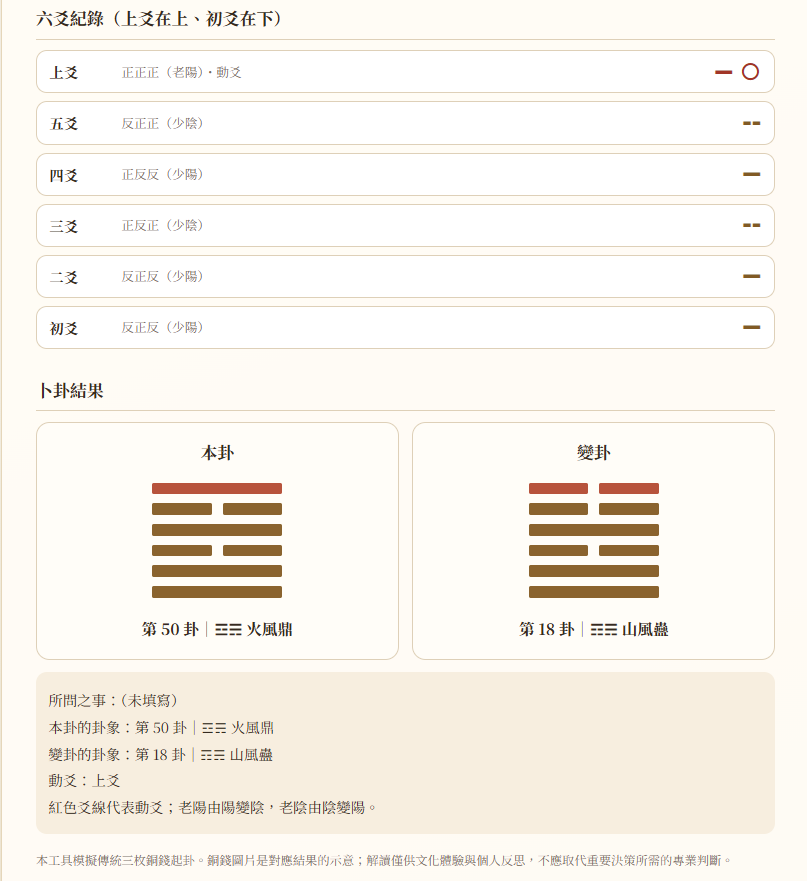
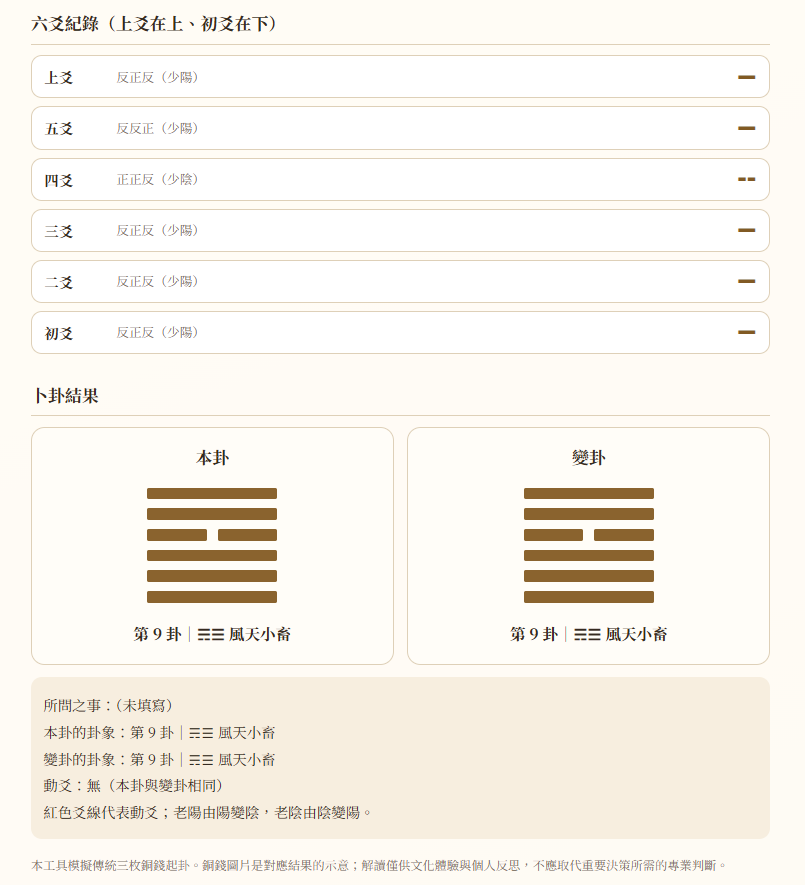
Update hexagram mappings and refresh result screenshot

Changed region(s): [[0.0311, 0.0, 0.9627, 0.3984], [0.0311, 0.4291, 0.9627, 0.7355], [0.0311, 0.7662, 0.9006, 1.0]]

diff --git a/index.html b/index.html
@@ -113,30 +113,30 @@
 
 // 二進位以「上爻到初爻」排列：1=陽、0=陰；前三碼為上卦，後三碼為下卦。
 const trigrams = {
-  "111": ["☰", "乾", "天"], "110": ["☱", "兌", "澤"],
-  "101": ["☲", "離", "火"], "100": ["☳", "震", "雷"],
-  "011": ["☴", "巽", "風"], "010": ["☵", "坎", "水"],
-  "001": ["☶", "艮", "山"], "000": ["☷", "坤", "地"]
+  "111": ["☰", "乾", "天"], "011": ["☱", "兌", "澤"],
+  "101": ["☲", "離", "火"], "001": ["☳", "震", "雷"],
+  "110": ["☴", "巽", "風"], "010": ["☵", "坎", "水"],
+  "100": ["☶", "艮", "山"], "000": ["☷", "坤", "地"]
 };
 
 // 文王六十四卦：每項 [二進位, 卦名, 傳統順序]
 const hexagramEntries = [
-  ["111111","乾",1], ["000000","坤",2], ["010100","屯",3], ["001010","蒙",4],
+  ["111111","乾",1], ["000000","坤",2], ["010001","屯",3], ["100010","蒙",4],
   ["010111","需",5], ["111010","訟",6], ["000010","師",7], ["010000","比",8],
-  ["011111","小畜",9], ["111110","履",10], ["000111","泰",11], ["111000","否",12],
-  ["111101","同人",13], ["101111","大有",14], ["000001","謙",15], ["100000","豫",16],
-  ["110100","隨",17], ["001011","蠱",18], ["000110","臨",19], ["011000","觀",20],
-  ["101100","噬嗑",21], ["001101","賁",22], ["001000","剝",23], ["000100","復",24],
-  ["111100","無妄",25], ["001111","大畜",26], ["001100","頤",27], ["110011","大過",28],
-  ["010010","坎",29], ["101101","離",30], ["110001","咸",31], ["100011","恆",32],
-  ["111001","遯",33], ["100111","大壯",34], ["101000","晉",35], ["000101","明夷",36],
-  ["011101","家人",37], ["101110","睽",38], ["010001","蹇",39], ["100010","解",40],
-  ["001110","損",41], ["011100","益",42], ["110111","夬",43], ["111011","姤",44],
-  ["110000","萃",45], ["000011","升",46], ["110010","困",47], ["010011","井",48],
-  ["110101","革",49], ["101011","鼎",50], ["100100","震",51], ["001001","艮",52],
-  ["011001","漸",53], ["100110","歸妹",54], ["100101","豐",55], ["101001","旅",56],
-  ["011011","巽",57], ["110110","兌",58], ["011010","渙",59], ["010110","節",60],
-  ["011110","中孚",61], ["100001","小過",62], ["010101","既濟",63], ["101010","未濟",64]
+  ["110111","小畜",9], ["111011","履",10], ["000111","泰",11], ["111000","否",12],
+  ["111101","同人",13], ["101111","大有",14], ["000100","謙",15], ["001000","豫",16],
+  ["011001","隨",17], ["100110","蠱",18], ["000011","臨",19], ["110000","觀",20],
+  ["101001","噬嗑",21], ["100101","賁",22], ["100000","剝",23], ["000001","復",24],
+  ["111001","無妄",25], ["100111","大畜",26], ["100001","頤",27], ["011110","大過",28],
+  ["010010","坎",29], ["101101","離",30], ["011100","咸",31], ["001110","恆",32],
+  ["111100","遯",33], ["001111","大壯",34], ["101000","晉",35], ["000101","明夷",36],
+  ["110101","家人",37], ["101011","睽",38], ["010100","蹇",39], ["001010","解",40],
+  ["100011","損",41], ["110001","益",42], ["011111","夬",43], ["111110","姤",44],
+  ["011000","萃",45], ["000110","升",46], ["011010","困",47], ["010110","井",48],
+  ["011101","革",49], ["101110","鼎",50], ["001001","震",51], ["100100","艮",52],
+  ["110100","漸",53], ["001011","歸妹",54], ["001101","豐",55], ["101100","旅",56],
+  ["110110","巽",57], ["011011","兌",58], ["110010","渙",59], ["010011","節",60],
+  ["110011","中孚",61], ["001100","小過",62], ["010101","既濟",63], ["101010","未濟",64]
 ];
 
 const hexagramMap = Object.fromEntries(hexagramEntries.map(([bits,name,number]) => {

diff --git a/vue-version/src/divination.js b/vue-version/src/divination.js
@@ -1,27 +1,27 @@
 // 由上爻到初爻：陽=1，陰=0；前三位為上卦，後三位為下卦。
 export const trigrams = {
-  "111": ["☰", "乾", "天"], "110": ["☱", "兌", "澤"],
-  "101": ["☲", "離", "火"], "100": ["☳", "震", "雷"],
-  "011": ["☴", "巽", "風"], "010": ["☵", "坎", "水"],
-  "001": ["☶", "艮", "山"], "000": ["☷", "坤", "地"]
+  "111": ["☰", "乾", "天"], "011": ["☱", "兌", "澤"],
+  "101": ["☲", "離", "火"], "001": ["☳", "震", "雷"],
+  "110": ["☴", "巽", "風"], "010": ["☵", "坎", "水"],
+  "100": ["☶", "艮", "山"], "000": ["☷", "坤", "地"]
 };
 export const hexagramEntries = [
-  ["111111","乾",1], ["000000","坤",2], ["010100","屯",3], ["001010","蒙",4],
+  ["111111","乾",1], ["000000","坤",2], ["010001","屯",3], ["100010","蒙",4],
   ["010111","需",5], ["111010","訟",6], ["000010","師",7], ["010000","比",8],
-  ["011111","小畜",9], ["111110","履",10], ["000111","泰",11], ["111000","否",12],
-  ["111101","同人",13], ["101111","大有",14], ["000001","謙",15], ["100000","豫",16],
-  ["110100","隨",17], ["001011","蠱",18], ["000110","臨",19], ["011000","觀",20],
-  ["101100","噬嗑",21], ["001101","賁",22], ["001000","剝",23], ["000100","復",24],
-  ["111100","無妄",25], ["001111","大畜",26], ["001100","頤",27], ["110011","大過",28],
-  ["010010","坎",29], ["101101","離",30], ["110001","咸",31], ["100011","恆",32],
-  ["111001","遯",33], ["100111","大壯",34], ["101000","晉",35], ["000101","明夷",36],
-  ["011101","家人",37], ["101110","睽",38], ["010001","蹇",39], ["100010","解",40],
-  ["001110","損",41], ["011100","益",42], ["110111","夬",43], ["111011","姤",44],
-  ["110000","萃",45], ["000011","升",46], ["110010","困",47], ["010011","井",48],
-  ["110101","革",49], ["101011","鼎",50], ["100100","震",51], ["001001","艮",52],
-  ["011001","漸",53], ["100110","歸妹",54], ["100101","豐",55], ["101001","旅",56],
-  ["011011","巽",57], ["110110","兌",58], ["011010","渙",59], ["010110","節",60],
-  ["011110","中孚",61], ["100001","小過",62], ["010101","既濟",63], ["101010","未濟",64]
+  ["110111","小畜",9], ["111011","履",10], ["000111","泰",11], ["111000","否",12],
+  ["111101","同人",13], ["101111","大有",14], ["000100","謙",15], ["001000","豫",16],
+  ["011001","隨",17], ["100110","蠱",18], ["000011","臨",19], ["110000","觀",20],
+  ["101001","噬嗑",21], ["100101","賁",22], ["100000","剝",23], ["000001","復",24],
+  ["111001","無妄",25], ["100111","大畜",26], ["100001","頤",27], ["011110","大過",28],
+  ["010010","坎",29], ["101101","離",30], ["011100","咸",31], ["001110","恆",32],
+  ["111100","遯",33], ["001111","大壯",34], ["101000","晉",35], ["000101","明夷",36],
+  ["110101","家人",37], ["101011","睽",38], ["010100","蹇",39], ["001010","解",40],
+  ["100011","損",41], ["110001","益",42], ["011111","夬",43], ["111110","姤",44],
+  ["011000","萃",45], ["000110","升",46], ["011010","困",47], ["010110","井",48],
+  ["011101","革",49], ["101110","鼎",50], ["001001","震",51], ["100100","艮",52],
+  ["110100","漸",53], ["001011","歸妹",54], ["001101","豐",55], ["101100","旅",56],
+  ["110110","巽",57], ["011011","兌",58], ["110010","渙",59], ["010011","節",60],
+  ["110011","中孚",61], ["001100","小過",62], ["010101","既濟",63], ["101010","未濟",64]
 ];
 export const hexagramMap = Object.fromEntries(hexagramEntries.map(([bits,name,number]) => {
   const top = trigrams[bits.slice(0,3)];

diff --git a/README.md b/README.md
@@ -33,7 +33,7 @@
 
 結果頁將六爻紀錄、本卦與變卦並列展示；紅色爻線標示發生變化的位置，摘要再次列出問題與卦象。
 
-![六爻紀錄、本卦火風鼎與變卦山風蠱](docs/screenshots/result.png)
+![六爻紀錄、無動爻時本卦與變卦皆為第 9 卦風天小畜](docs/screenshots/result.png)
 
 
 ## 技術設計與面試討論重點
@@ -102,7 +102,7 @@ Divination/
 ├── README.md
 ├── index.html                 # 原生 HTML / CSS / JavaScript 版本
 ├── image/                     # 原生版龜殼與八組銅錢示意圖
-├── docs/screenshots/          # 四張作品展示截圖
+├── docs/screenshots/          # 三張作品展示截圖
 └── vue-version/
     ├── src/
     │   ├── App.vue            # 互動、狀態與模板
